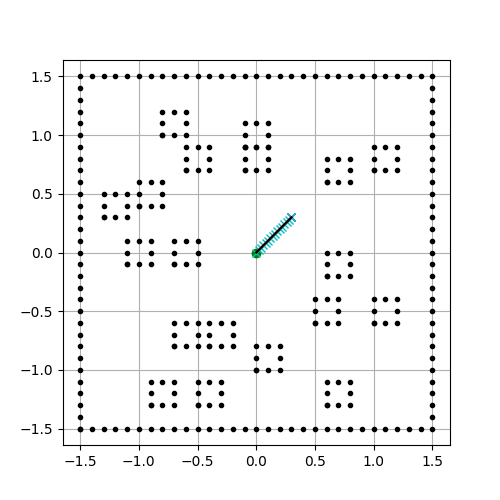
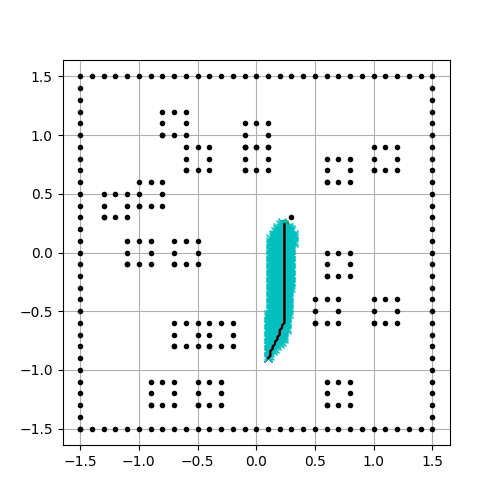
fix astar pathing to next from inside obst

Changed region(s): [[0.51, 0.42, 0.6, 0.75]]

diff --git a/Week08-09/astar.py b/Week08-09/astar.py
@@ -74,7 +74,8 @@ class AStarPlanner:
         while True:
             if len(open_set) == 0:
                 print("Open set is empty..")
-                break
+                return None, None
+                # break
 
             c_id = min(
                 open_set,
@@ -193,15 +194,15 @@ class AStarPlanner:
         self.min_y = round(min(oy))
         self.max_x = round(max(ox))
         self.max_y = round(max(oy))
-        print("min_x:", self.min_x)
-        print("min_y:", self.min_y)
-        print("max_x:", self.max_x)
-        print("max_y:", self.max_y)
+        # print("min_x:", self.min_x)
+        # print("min_y:", self.min_y)
+        # print("max_x:", self.max_x)
+        # print("max_y:", self.max_y)
 
         self.x_width = round((self.max_x - self.min_x) / self.resolution)
         self.y_width = round((self.max_y - self.min_y) / self.resolution)
-        print("x_width:", self.x_width)
-        print("y_width:", self.y_width)
+        # print("x_width:", self.x_width)
+        # print("y_width:", self.y_width)
 
         # obstacle map generation
         self.obstacle_map = [[False for _ in range(self.y_width)]
@@ -293,8 +294,8 @@ def simplify_path(waypoint_x, waypoint_y, threshold=1):
 
 # ================================
 
-def a_start(start_x,start_y,goal_x,goal_y,obstacle_list):
-    print(__file__ + " start!!")
+def a_start(start_x,start_y,goal_x,goal_y,obstacle_list,last_fruit=None):
+    print("Running astar...")
     plt.clf() # so we don't get previous plots overlaid
 
     # start and goal position
@@ -305,7 +306,7 @@ def a_start(start_x,start_y,goal_x,goal_y,obstacle_list):
     grid_size = 0.02  # [m]
     robot_radius = 0.08  # [m]
 
-    OBSTACLE_RADIUS = 1 # 1 is 10cm 
+    # OBSTACLE_RADIUS = 0 # 1 is 10cm 
     obstacle_list = (obstacle_list*10).astype(int)
 
     # set border positions
@@ -325,6 +326,11 @@ def a_start(start_x,start_y,goal_x,goal_y,obstacle_list):
 
     #set obstacle positions
     for obst in range(len(obstacle_list)):
+        if obst == last_fruit:
+            OBSTACLE_RADIUS = 0
+        else: 
+            OBSTACLE_RADIUS = 1
+        
         for i in range(obstacle_list[obst][0]-OBSTACLE_RADIUS, obstacle_list[obst][0]+OBSTACLE_RADIUS): # bottom
             ox.append(i*0.1)
             oy.append((obstacle_list[obst][1]-OBSTACLE_RADIUS)*0.1)
@@ -344,10 +350,12 @@ def a_start(start_x,start_y,goal_x,goal_y,obstacle_list):
         plt.plot(gx, gy, "xb")
         plt.grid(True)
         plt.axis("equal")
+        plt.savefig("astar_temp.png")
 
     a_star = AStarPlanner(ox, oy, grid_size, robot_radius)
     rx, ry = a_star.planning(sx, sy, gx, gy)
-    print("made it out")
+    if rx == None and ry == None:
+        return None, None
     #rsimpx = [-1.0, -1.0, -0.52, -0.21999, 0.0]
     #rsimpy = [-1.0, -0.7, -0.2199, -0.2199, 0.0]
 
@@ -368,7 +376,6 @@ def a_start(start_x,start_y,goal_x,goal_y,obstacle_list):
         # plt.pause(0.001)
         # plt.show()
         plt.savefig("astar_generated.png") # for cian, cant view plt.show() on my laptop
-
     
     waypoint = []
     for i in range(len(waypoint_x)) :

diff --git a/Week08-09/auto_fruit_search_new_strat.py b/Week08-09/auto_fruit_search_new_strat.py
@@ -740,7 +740,8 @@ if __name__ == "__main__":
     # obstacle_list.insert(fruit_index, operate.fruit_to_find)        # Add the finding fruit back to obstacle list
     # print(operate.all_waypoints)
 
-     ### for Autonomous Waypoints (COMMENT THIS OUT : Do not use thiss until its time to test)
+    ### for Autonomous Waypoints (COMMENT THIS OUT : Do not use thiss until its time to test)
+    last_fruit_index = -1
     for K in range(5) : 
         fruit_to_find = search_list.pop(0)
         fruit_index = fruits_list.index(fruit_to_find.lower())
@@ -753,8 +754,9 @@ if __name__ == "__main__":
             robot_x = 0
             robot_y = 0
 
-    
         all_waypoints_reverse, simplified_path_reverse = astar.a_start(robot_x, robot_y, operate.fruit_to_find_xy[0], operate.fruit_to_find_xy[1], obstacle_list)
+        if all_waypoints_reverse == None and simplified_path_reverse == None:
+            all_waypoints_reverse, simplified_path_reverse = astar.a_start(robot_x, robot_y, operate.fruit_to_find_xy[0], operate.fruit_to_find_xy[1], obstacle_list, last_fruit_index-1)
         
         # Waypoints are reversed, trying to set it right
         operate.all_waypoints = []
@@ -777,6 +779,8 @@ if __name__ == "__main__":
         print(operate.all_waypoints)
         robot_x = final_waypoint[0]
         robot_y = final_waypoint[1]
+        
+        last_fruit_index = fruit_index
     ###
 
     ppi = PenguinPi(args.ip,args.port)
